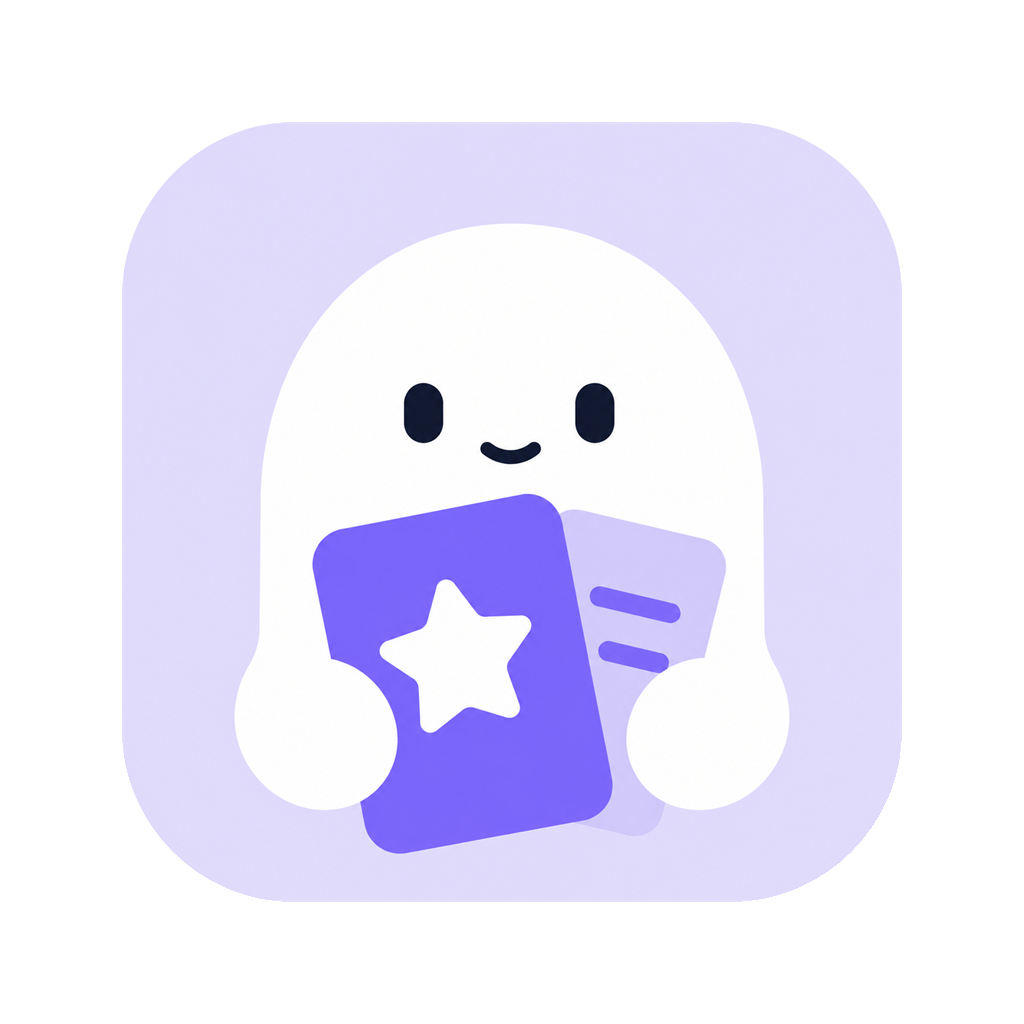
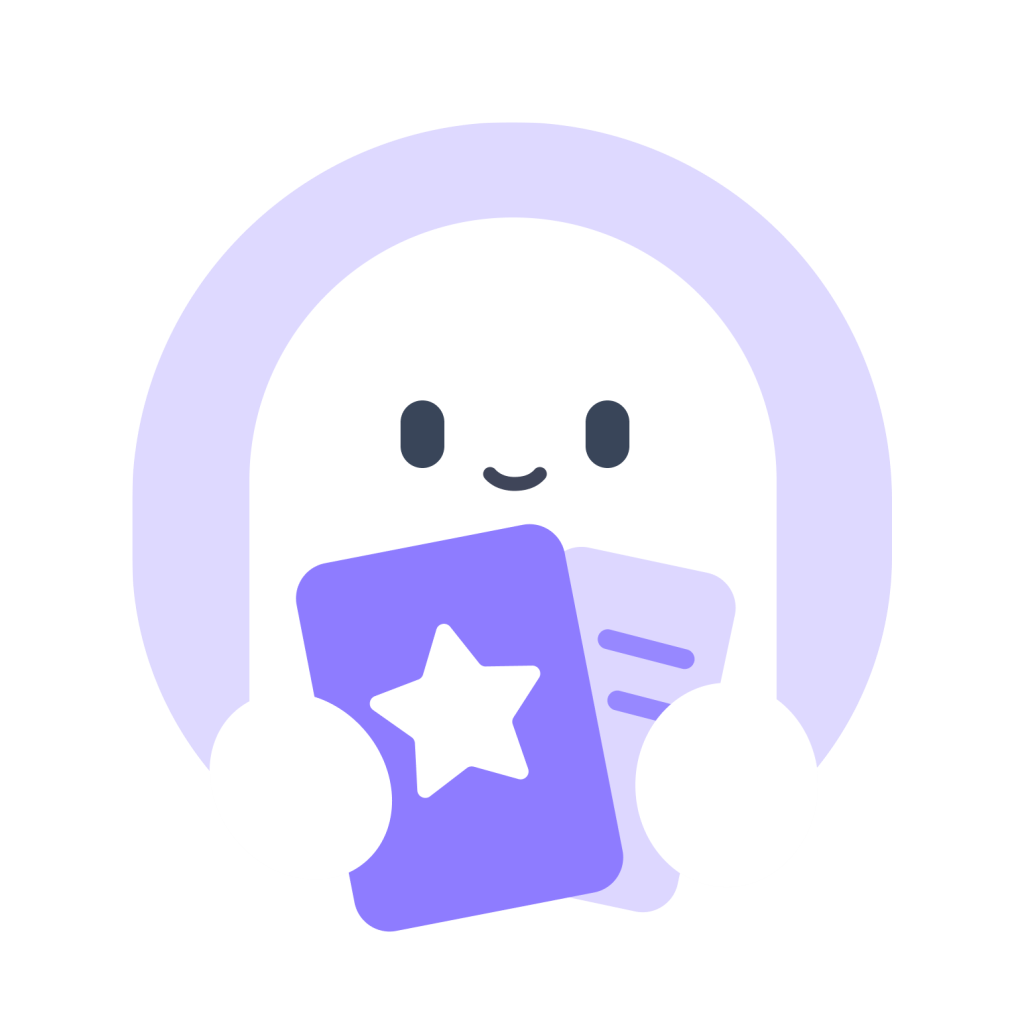
fix: apply figma launch artwork

diff --git a/App.js b/App.js
@@ -65,7 +65,8 @@ import {
 } from "./src/i18n";
 
 const GOOGLE_G_ICON = require("./assets/google-g.png");
-const MEMORIA_CHARACTER_IMAGE = require("./assets/memoria-character.png");
+const MEMORIA_CHARACTER_IMAGE = require("./assets/ghost_character.png");
+const MEMORIA_SPLASH_PREVIEW_IMAGE = require("./assets/splash_full_preview.png");
 
 WebBrowser.maybeCompleteAuthSession();
 const APP_VERSION = "1.0.0";
@@ -453,7 +454,7 @@ const LIGHT_THEME = {
   tabBarBg: "rgba(255, 255, 255, 0.98)",
   tabText: "#7280A1",
   iconContrast: "#FFFFFF",
-  launchBg: "#F5F7FB",
+  launchBg: "#F7F5FF",
 };
 
 const getQuizModeConfig = (mode) =>
@@ -5898,25 +5899,11 @@ function TutorialOverlay({ styles, theme, t, onClose, onStart, maxWidth }) {
   return (
     <View style={styles.tutorialOverlay}>
       <View pointerEvents="none" style={styles.tutorialIntroDecor}>
-        <View style={styles.backgroundOrbPrimary} />
-        <View style={styles.backgroundOrbSecondary} />
-        {STAR_FIELD.map((star, index) => (
-          <View
-            key={`tutorial-star-${index}`}
-            style={[
-              styles.star,
-              {
-                top: star.top,
-                left: star.left,
-                right: star.right,
-                width: star.size,
-                height: star.size,
-                borderRadius: star.size / 2,
-                opacity: star.opacity,
-              },
-            ]}
-          />
-        ))}
+        <Image
+          source={MEMORIA_SPLASH_PREVIEW_IMAGE}
+          style={styles.memoriaPreviewImage}
+          resizeMode="cover"
+        />
       </View>
       <ScrollView
         showsVerticalScrollIndicator={false}
@@ -5926,7 +5913,6 @@ function TutorialOverlay({ styles, theme, t, onClose, onStart, maxWidth }) {
         ]}
       >
         <View style={styles.tutorialBrandBlock}>
-          <MemoriaArtwork styles={styles} />
           <Text style={styles.tutorialBrandTitle}>M E M O R I A</Text>
         </View>
 
@@ -6447,70 +6433,57 @@ function LaunchScreen({
   return (
     <Animated.View style={[styles.launchScreen, { opacity }]}>
       <View pointerEvents="none" style={styles.launchDecorLayer}>
-        <View style={[styles.launchDecorOrb, styles.launchDecorOrbTop]} />
-        <View style={[styles.launchDecorOrb, styles.launchDecorOrbBottom]} />
-        <View style={[styles.launchDecorDot, styles.launchDecorDotTopLeft]} />
-        <View style={[styles.launchDecorDot, styles.launchDecorDotTopMid]} />
-        <View style={[styles.launchDecorDot, styles.launchDecorDotBottomLeft]} />
-        <MaterialCommunityIcons
-          name="star-four-points"
-          size={26}
-          color={theme.accent}
-          style={styles.launchDecorStarRight}
-        />
-        <MaterialCommunityIcons
-          name="moon-waning-crescent"
-          size={28}
-          color={theme.accent}
-          style={styles.launchDecorMoonLeft}
+        <Image
+          source={MEMORIA_SPLASH_PREVIEW_IMAGE}
+          style={styles.memoriaPreviewImage}
+          resizeMode="cover"
         />
       </View>
 
       <Animated.View style={[styles.launchContent, { transform: [{ scale }] }]}>
-        <View style={styles.launchBrandBlock}>
-          <MemoriaArtwork styles={styles} variant="launch" />
+        <View style={styles.launchBottomStack}>
           <Text style={styles.launchTitle}>M E M O R I A</Text>
-        </View>
 
-        <View style={styles.launchActionGroup}>
-          <Pressable
-            disabled={googleDisabled}
-            onPress={onGooglePress}
-            style={({ pressed }) => [styles.launchGoogleButtonShell, pressed && styles.pressed]}
-          >
-            <LinearGradient
-              colors={googleDisabled ? ["#C9D0E3", "#BCC4DA"] : ["#9F8FFF", "#8572F4"]}
-              start={{ x: 0, y: 0.5 }}
-              end={{ x: 1, y: 0.5 }}
-              style={styles.launchGoogleButton}
+          <View style={styles.launchActionGroup}>
+            <Pressable
+              disabled={googleDisabled}
+              onPress={onGooglePress}
+              style={({ pressed }) => [styles.launchGoogleButtonShell, pressed && styles.pressed]}
             >
-              <View style={styles.launchGoogleIconCircle}>
-                <Image
-                  source={GOOGLE_G_ICON}
-                  style={styles.launchGoogleIconImage}
-                  resizeMode="contain"
-                />
-              </View>
-              <Text style={styles.launchGoogleButtonText}>
-                {authBusy ? t("about.authConnecting") : googleLabel}
-              </Text>
-            </LinearGradient>
-          </Pressable>
+              <LinearGradient
+                colors={googleDisabled ? ["#C9D0E3", "#BCC4DA"] : ["#9F8FFF", "#8572F4"]}
+                start={{ x: 0, y: 0.5 }}
+                end={{ x: 1, y: 0.5 }}
+                style={styles.launchGoogleButton}
+              >
+                <View style={styles.launchGoogleIconCircle}>
+                  <Image
+                    source={GOOGLE_G_ICON}
+                    style={styles.launchGoogleIconImage}
+                    resizeMode="contain"
+                  />
+                </View>
+                <Text style={styles.launchGoogleButtonText}>
+                  {authBusy ? t("about.authConnecting") : googleLabel}
+                </Text>
+              </LinearGradient>
+            </Pressable>
 
-          <Pressable
-            disabled={!authReady}
-            onPress={onGuestPress}
-            style={({ pressed }) => [
-              styles.launchGuestButton,
-              !authReady && styles.launchGuestButtonDisabled,
-              pressed && styles.pressed,
-            ]}
-          >
-            <View style={styles.launchGuestIconWrap}>
-              <MaterialCommunityIcons name="account-star" size={30} color={theme.accent} />
-            </View>
-            <Text style={styles.launchGuestButtonText}>{t("launch.guestStart")}</Text>
-          </Pressable>
+            <Pressable
+              disabled={!authReady}
+              onPress={onGuestPress}
+              style={({ pressed }) => [
+                styles.launchGuestButton,
+                !authReady && styles.launchGuestButtonDisabled,
+                pressed && styles.pressed,
+              ]}
+            >
+              <View style={styles.launchGuestIconWrap}>
+                <MaterialCommunityIcons name="account-star" size={30} color={theme.accent} />
+              </View>
+              <Text style={styles.launchGuestButtonText}>{t("launch.guestStart")}</Text>
+            </Pressable>
+          </View>
         </View>
       </Animated.View>
     </Animated.View>
@@ -9999,6 +9972,11 @@ const createStyles = (theme) => StyleSheet.create({
   launchDecorLayer: {
     ...StyleSheet.absoluteFillObject,
   },
+  memoriaPreviewImage: {
+    ...StyleSheet.absoluteFillObject,
+    width: "100%",
+    height: "100%",
+  },
   launchDecorOrb: {
     position: "absolute",
     borderRadius: 999,
@@ -10049,21 +10027,18 @@ const createStyles = (theme) => StyleSheet.create({
     opacity: 0.82,
   },
   launchContent: {
-    width: "100%",
-    maxWidth: 560,
-    flex: 1,
+    ...StyleSheet.absoluteFillObject,
     alignItems: "center",
-    justifyContent: "center",
+    justifyContent: "flex-end",
     paddingHorizontal: 20,
     paddingTop: Platform.OS === "android" ? 42 : 58,
-    paddingBottom: Platform.OS === "android" ? 64 : 72,
+    paddingBottom: Platform.OS === "android" ? 42 : 54,
   },
-  launchBrandBlock: {
-    flex: 1,
-    alignItems: "center",
-    justifyContent: "center",
+  launchBottomStack: {
     width: "100%",
-    gap: 14,
+    maxWidth: 560,
+    alignItems: "center",
+    gap: 18,
   },
   launchActionGroup: {
     width: "100%",
@@ -10096,10 +10071,11 @@ const createStyles = (theme) => StyleSheet.create({
     alignItems: "center",
     justifyContent: "center",
     backgroundColor: "#FFFFFF",
+    overflow: "hidden",
   },
   launchGoogleIconImage: {
-    width: 31,
-    height: 31,
+    width: 30,
+    height: 30,
   },
   launchGoogleButtonText: {
     fontSize: 17,
@@ -10358,16 +10334,15 @@ const createStyles = (theme) => StyleSheet.create({
     flexGrow: 1,
     paddingHorizontal: 20,
     paddingTop: Platform.OS === "android" ? (StatusBar.currentHeight ?? 0) + 38 : 58,
-    paddingBottom: Platform.OS === "android" ? 38 : 52,
-    justifyContent: "center",
+    paddingBottom: Platform.OS === "android" ? 36 : 50,
+    justifyContent: "flex-end",
   },
   tutorialBrandBlock: {
     alignItems: "center",
     justifyContent: "center",
-    marginBottom: 30,
+    marginBottom: 18,
   },
   tutorialBrandTitle: {
-    marginTop: 12,
     fontSize: 28,
     lineHeight: 40,
     fontWeight: "900",

diff --git a/src/i18n.js b/src/i18n.js
@@ -41,7 +41,7 @@ const TRANSLATIONS = {
       googleStart: "Google로 시작하기",
       googleContinue: "Google 계정으로 계속하기",
       googleUnavailable: "Google 로그인 설정 필요",
-      guestStart: "게스트로 둘러보기",
+      guestStart: "게스트로 시작하기",
     },
     saveModes: {
       single: "한 장씩",
@@ -575,7 +575,7 @@ const TRANSLATIONS = {
       googleStart: "Start with Google",
       googleContinue: "Continue with Google",
       googleUnavailable: "Google setup required",
-      guestStart: "Browse as guest",
+      guestStart: "Start as guest",
     },
     saveModes: {
       single: "One by one",
@@ -1109,7 +1109,7 @@ const TRANSLATIONS = {
       googleStart: "Google で始める",
       googleContinue: "Google で続ける",
       googleUnavailable: "Google 設定が必要",
-      guestStart: "ゲストで見る",
+      guestStart: "ゲストで始める",
     },
     saveModes: {
       single: "1枚ずつ",
